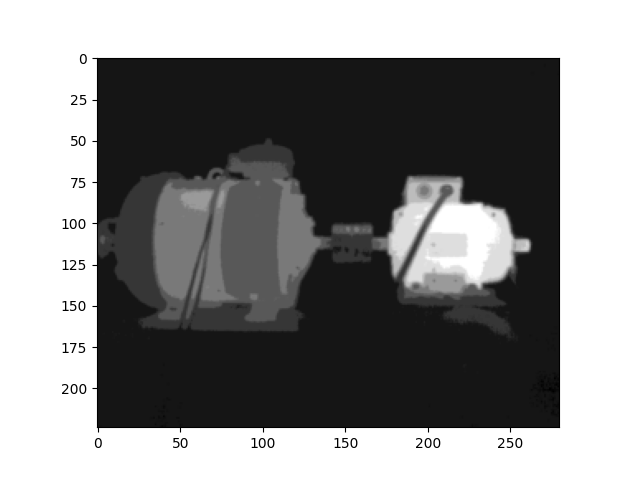
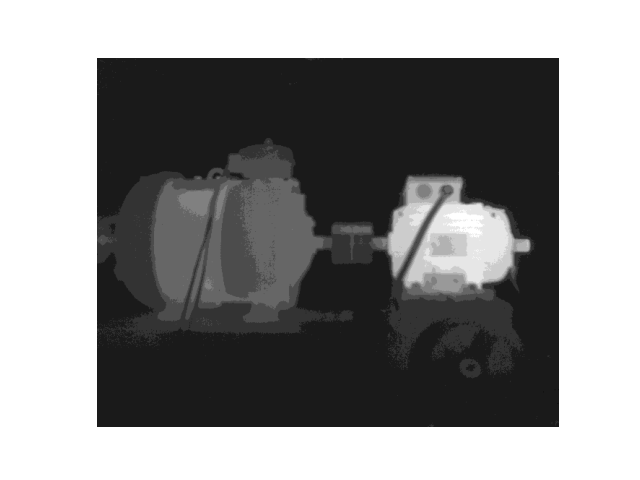
updated stacked images

diff --git a/nns/stackedImages.py b/nns/stackedImages.py
@@ -1,11 +1,11 @@
 from PIL import Image
   
-img_01 = Image.open("C:/Users/nihal.suri/Documents/GitHub/thermal-anomaly-detection/cnn/transformation_results/standard/center_crop.png")
-img_02 = Image.open("C:/Users/nihal.suri/Documents/GitHub/thermal-anomaly-detection/cnn/transformation_results/standard/random_affine.png")
-img_03 = Image.open("C:/Users/nihal.suri/Documents/GitHub/thermal-anomaly-detection/cnn/transformation_results/standard/random_perspective.png")
-img_04 = Image.open("C:/Users/nihal.suri/Documents/GitHub/thermal-anomaly-detection/cnn/transformation_results/standard/random_rotation.png")
-img_05 = Image.open("C:/Users/nihal.suri/Documents/GitHub/thermal-anomaly-detection/cnn/transformation_results/standard/rand_resized_crop.png")
-
+img_01 = Image.open("C:/Users/nihal.suri/Documents/GitHub/thermal-anomaly-detection/nns/transformation_results/rotor/center.png")
+img_02 = Image.open("C:/Users/nihal.suri/Documents/GitHub/thermal-anomaly-detection/nns/transformation_results/rotor/affine.png")
+img_03 = Image.open("C:/Users/nihal.suri/Documents/GitHub/thermal-anomaly-detection/nns/transformation_results/rotor/jitter.png")
+img_04 = Image.open("C:/Users/nihal.suri/Documents/GitHub/thermal-anomaly-detection/nns/transformation_results/rotor/p.png")
+img_05 = Image.open("C:/Users/nihal.suri/Documents/GitHub/thermal-anomaly-detection/nns/transformation_results/rotor/r.png")
+img_06 = Image.open("C:/Users/nihal.suri/Documents/GitHub/thermal-anomaly-detection/nns/transformation_results/rotor/rot.png")
 
 img_01_size = img_01.size
 img_02_size = img_02.size
@@ -17,14 +17,20 @@ print('img 1 size: ', img_01_size)
 print('img 2 size: ', img_02_size)
 print('img 3 size: ', img_03_size)
 print('img 4 size: ', img_03_size)
-  
-new_im = Image.new('RGB', (1*img_01_size[0],5*img_01_size[1]), (250,250,250))
-  
-new_im.paste(img_01, (0,0))
-new_im.paste(img_02, (0, img_01_size[1]))
-new_im.paste(img_03, (0, 2*img_01_size[1]))
-new_im.paste(img_04, (0, 3*img_01_size[1]))
-new_im.paste(img_05, (0, 4*img_01_size[1]))
 
-new_im.save("transformation_results/standard/stacked.png", "PNG")
+dist = 40
+  
+new_im = Image.new('RGB', (1*img_01_size[0],6*img_01_size[1] - dist*5 - 20), (250,250,250))
+
+
+
+new_im.paste(img_01, (0,0))
+new_im.paste(img_02, (0, img_01_size[1] - dist))
+new_im.paste(img_03, (0, 2*img_01_size[1] - dist*2))
+new_im.paste(img_04, (0, 3*img_01_size[1] - dist*3))
+new_im.paste(img_05, (0, 4*img_01_size[1] - dist*4))
+new_im.paste(img_06, (0, 5*img_01_size[1] - dist*5))
+
+
+new_im.save("transformation_results/rotor/stacked.png", "PNG")
 new_im.show()

diff --git a/nns/transformsIllustration.py b/nns/transformsIllustration.py
@@ -42,18 +42,18 @@ def plot(imgs, with_orig=True, row_title=None, **imshow_kwargs):
 
 
 # For mages : 
-resized_imgs = [T.Resize(size=size)(orig_img) for size in (30, 50, 100, orig_img.size)]
-plot(resized_imgs)
-center_crops = [T.CenterCrop(size=size)(orig_img) for size in (30, 50, 100, orig_img.size)]
+# resized_imgs = [T.Resize(size=size)(orig_img) for size in (30, 50, 100, orig_img.size)]
+# plot(resized_imgs)
+center_crops = [T.CenterCrop(size=size)(orig_img) for size in (30, 50, 70, 80)]
 plot(center_crops)
-(top_left, top_right, bottom_left, bottom_right, center) = T.FiveCrop(size=(100, 100))(orig_img)
-plot([top_left, top_right, bottom_left, bottom_right, center])
+# (top_left, top_right, bottom_left, bottom_right, center) = T.FiveCrop(size=(100, 100))(orig_img)
+# plot([top_left, top_right, bottom_left, bottom_right, center])
 jitter = T.ColorJitter(brightness=.5, hue=.3)
 jitted_imgs = [jitter(orig_img) for _ in range(4)]
 plot(jitted_imgs)
-blurrer = T.GaussianBlur(kernel_size=(5, 9), sigma=(0.1, 5))
-blurred_imgs = [blurrer(orig_img) for _ in range(4)]
-plot(blurred_imgs)
+# blurrer = T.GaussianBlur(kernel_size=(5, 9), sigma=(0.1, 5))
+# blurred_imgs = [blurrer(orig_img) for _ in range(4)]
+# plot(blurred_imgs)
 perspective_transformer = T.RandomPerspective(distortion_scale=0.6, p=1.0)
 perspective_imgs = [perspective_transformer(orig_img) for _ in range(4)]
 plot(perspective_imgs)

diff --git a/nns/customData.py b/nns/customData.py
@@ -56,7 +56,7 @@ input_size = 224
 transform_train = transforms.Compose([
     # add other transformations in this list
     # transforms.Normalize((0.485, 0.456, 0.406), (0.229, 0.224, 0.225)),
-    transforms.Resize((input_size, input_size)),
+    #transforms.Resize((input_size, input_size)),
     transforms.Grayscale(num_output_channels=1),
     transforms.ToTensor()
 
@@ -65,14 +65,14 @@ transform_train = transforms.Compose([
 
 transform_valid = transforms.Compose([
     # add other transformations in this list
-    transforms.Resize((input_size, input_size)),
+   # transforms.Resize((input_size, input_size)),
     transforms.Grayscale(num_output_channels=1),
     transforms.ToTensor()
 ])
 
 transform_test = transforms.Compose([
     # add other transformations in this list
-    transforms.Resize((input_size, input_size)),
+    #transforms.Resize((input_size, input_size)),
     transforms.Grayscale(num_output_channels=1),
     transforms.ToTensor()
 ])
@@ -103,5 +103,6 @@ print(f"Labels batch shape: {train_labels.size()}")
 img = train_features[0].squeeze()
 label = train_labels[0]
 plt.imshow(img, cmap="gray")
+plt.axis('off')
 plt.show()
 print(f"Label: {label}")
